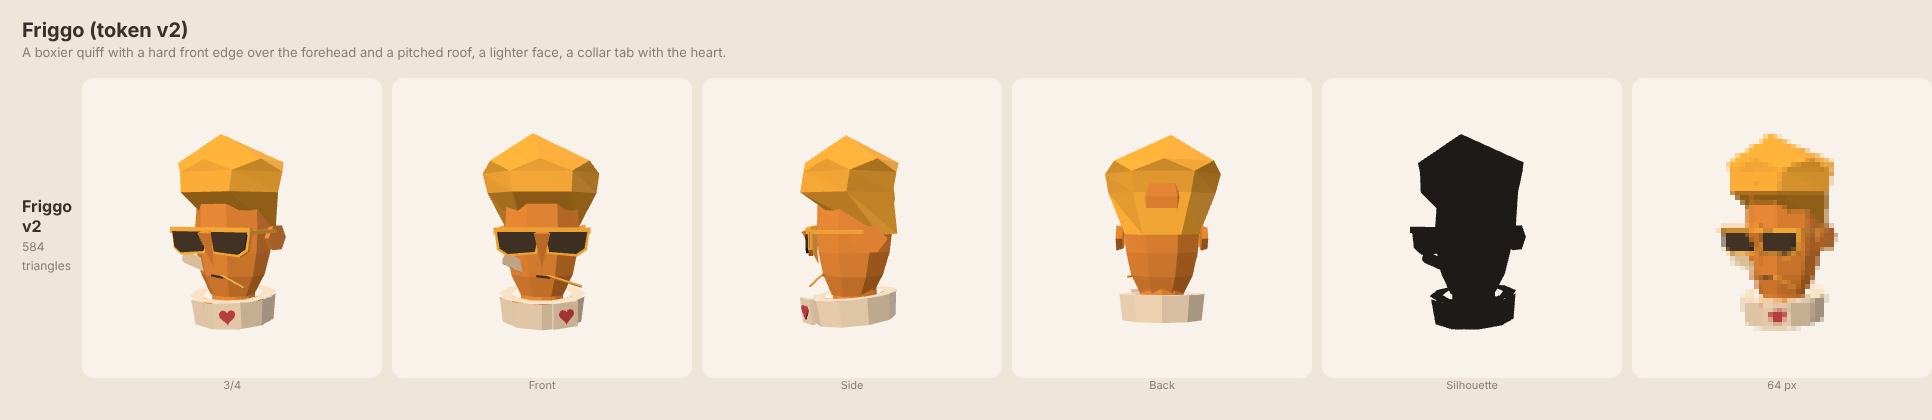
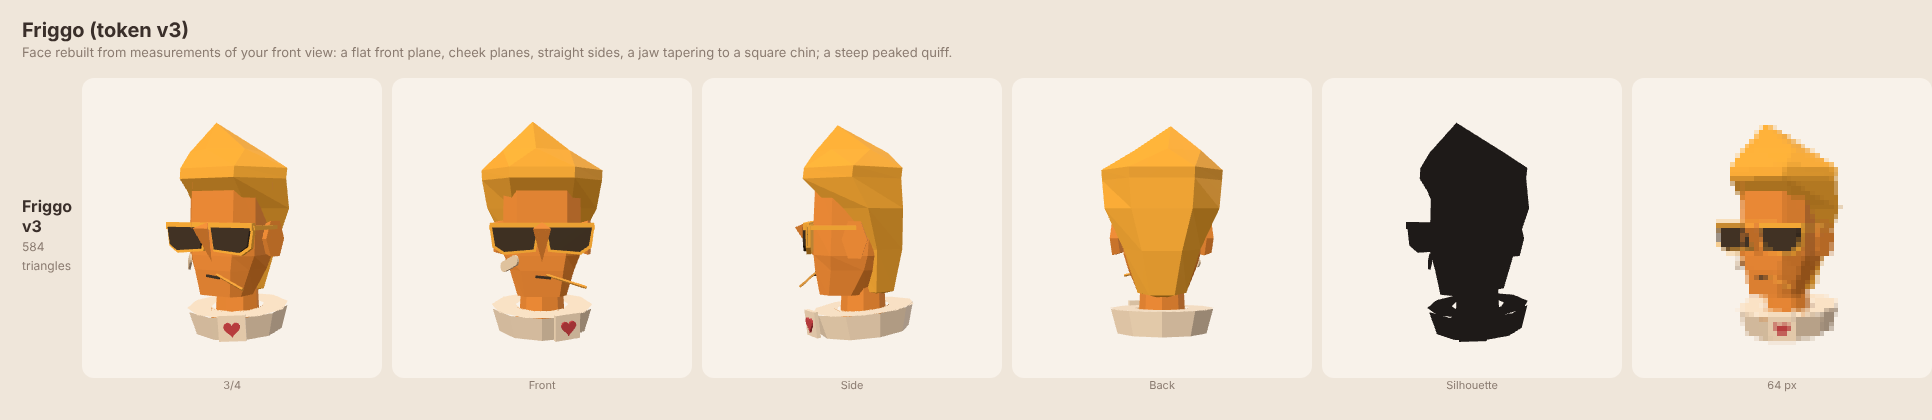
Leader heads: Friggo token v3, face rebuilt from measurements of the reference
The face is now stacked polygon rings with explicit points (loftPoly), measured from the sheet's front view: a
flat front plane, chamfered cheek planes, straight sides, a jaw tapering to a square chin, a neck. Steeper peaked
quiff that runs down the back of the head, bigger ears, lower collar.

Claude-Session: https://claude.ai/code/session_01Evp91q287uqvTHXxJdbEVv

diff --git a/models/heads/friggo.js b/models/heads/friggo.js
@@ -51,67 +51,93 @@ const FriggoHead = (THREE) => {
   const HAIR = '#F7B238', FACE = '#EA8F37', SHADES = '#3B2E1F', COLLAR = '#F3E4CF', COLLAR2 = '#D9C7AE', HEART = '#C4414A', BANDAGE = '#E6D3B8', PICK = '#E8A43C';
 
   // the face: a long wedge, widest at the cheekbones/glasses, tapering to a square chin; a flat facet at the front
-  // measured from the sheet's front view (chin at y -1, hairline at 1): [y, halfWidth, halfDepth, centreZ, centreX, turn]
-  const FACE_RINGS = [
-    [-1.0, 0.44, 0.42, 0.0, 0, 0.5], // chin: square and wide
-    [-0.6, 0.64, 0.62, 0.02, 0, 0.5], // jaw, at the mouth
-    [-0.15, 0.74, 0.74, 0.04, 0, 0.5], // cheeks
-    [0.27, 0.77, 0.78, 0.05, 0, 0.5], // glasses
-    [0.9, 0.73, 0.8, 0.08, 0, 0.5], // temples
-    [1.2, 0.6, 0.74, 0.1, 0, 0.5], // under the hair
+  // a solid from stacked polygon rings: each ring { y, pts: [[x, z], ...] }, the same number of points, going round
+  // the same way; quads between rings, the ends closed with a fan
+  const loftPoly = (rings) => {
+    const pos = [];
+    const tri = (A, B, C, inside) => {
+      const n = new THREE.Vector3().crossVectors(B.clone().sub(A), C.clone().sub(A));
+      const out = A.clone().add(B).add(C).multiplyScalar(1 / 3).sub(inside);
+      if (n.dot(out) < 0) [B, C] = [C, B];
+      pos.push(A.x, A.y, A.z, B.x, B.y, B.z, C.x, C.y, C.z);
+    };
+    const V = (r, i) => { const [x, z] = r.pts[(i + r.pts.length) % r.pts.length]; return new THREE.Vector3(x, r.y, z); };
+    const mid = (r) => { const c = r.pts.reduce((a, [x, z]) => [a[0] + x, a[1] + z], [0, 0]); return new THREE.Vector3(c[0] / r.pts.length, r.y, c[1] / r.pts.length); };
+    for (let k = 0; k < rings.length - 1; k++) {
+      const R0 = rings[k], R1 = rings[k + 1], inside = mid(R0).lerp(mid(R1), 0.5);
+      for (let i = 0; i < R0.pts.length; i++) { tri(V(R0, i), V(R0, i + 1), V(R1, i + 1), inside); tri(V(R0, i), V(R1, i + 1), V(R1, i), inside); }
+    }
+    for (const [r, dy] of [[rings[0], 0.3], [rings[rings.length - 1], -0.3]]) {
+      const c = mid(r), inside = c.clone().add(new THREE.Vector3(0, dy, 0));
+      for (let i = 0; i < r.pts.length; i++) tri(c, V(r, i), V(r, i + 1), inside);
+    }
+    const g = new THREE.BufferGeometry(); g.setAttribute('position', new THREE.Float32BufferAttribute(pos, 3)); return g;
+  };
+  // the face, measured from the sheet's front view (hairline y 1, chin y -1): a box with chamfered front corners.
+  // A wide flat front plane, cheek planes at the corners, near-vertical sides down past the glasses, then the jaw
+  // tapering to a broad, flat-bottomed chin. Each ring: [y, front half-width, front z, cheek x, cheek z, side x,
+  // side z, back x, back z]
+  const FACE_SEC = [
+    [-1.0, 0.3, -0.56, 0.42, -0.4, 0.44, -0.02, 0.28, 0.24], // chin: square, flat-bottomed
+    [-0.55, 0.36, -0.64, 0.56, -0.36, 0.6, 0.2, 0.36, 0.56], // jaw corner
+    [-0.3, 0.4, -0.66, 0.66, -0.36, 0.67, 0.26, 0.4, 0.72], // cheekbones, under the glasses
+    [0.24, 0.42, -0.66, 0.67, -0.34, 0.67, 0.3, 0.42, 0.8], // top of the glasses
+    [1.1, 0.42, -0.62, 0.66, -0.32, 0.66, 0.3, 0.42, 0.8], // under the hair
   ];
-  const frontZ = (ring) => ring[3] - ring[2] * Math.cos(PI / 8); // the front facet's depth at that ring
+  const ring = ([y, fx, fz, cx, cz, sx, sz, bx, bz]) => ({ y, pts: [[fx, fz], [cx, cz], [sx, sz], [bx, bz], [-bx, bz], [-sx, sz], [-cx, cz], [-fx, fz]] });
+  const frontZ = (y) => { // the front plane's depth at height y
+    for (let i = 0; i < FACE_SEC.length - 1; i++) { const a = FACE_SEC[i], b = FACE_SEC[i + 1]; if (y >= a[0] && y <= b[0]) return a[2] + (b[2] - a[2]) * (y - a[0]) / (b[0] - a[0]); }
+    return -0.62;
+  };
 
   const parts = () => {
     const out = [];
-    out.push({ g: loft(FACE_RINGS, [0, 1.25, 0.1], [0, -1.04, 0.0]), col: FACE });
-    // hair: a big faceted pompadour, wider than the face, jutting forward over the forehead, peaking at the top front
-    // hair: a wide, deep block wrapping down the back of the head, a straight hairline across the forehead, and a
-    // pitched roof up to a peak a little to one side. About half as tall as the face, a bit wider than it.
+    out.push({ g: loftPoly(FACE_SEC.map(ring)), col: FACE });
+    out.push(P(new THREE.CylinderGeometry(0.38, 0.42, 0.8, 8), FACE, [0, -1.25, 0.2])); // neck
+    // hair: 1.6 times the face's width, about as tall as the forehead to the peak; a hard straight front edge
+    // overhanging the forehead, sides dropping past the temples, wrapping round the back of the head; a pitched
+    // roof up to a peak off to his right
     const HAIR_RINGS = [
-      [0.2, 0.7, 0.42, 0.5, 0.0, 0.5], // low at the back (its front is hidden inside the face)
-      [0.98, 1.06, 1.0, -0.1, 0.0, 0.5], // the hairline: a hard, straight front edge, overhanging the forehead
-      [1.36, 1.14, 1.0, -0.04, 0.02, 0.5], // near-vertical sides; the front slopes back and up, so it catches the light
-      [1.58, 1.08, 0.92, 0.0, 0.04, 0], // the roof starts: turned, so it breaks into triangular facets
+      [-0.95, 0.42, 0.36, 0.42, 0.0, 0.5], // down the back of the head to the neck
+      [-0.2, 0.66, 0.52, 0.42, 0.0, 0.5], // low at the back of the head (its front hidden inside the face)
+      [0.5, 1.0, 0.7, 0.26, 0.0, 0.5], // the sides, past the temples (the front still inside the face)
+      [1.0, 1.07, 0.96, 0.0, 0.0, 0.5], // the hairline: the front overhangs the forehead
+      [1.18, 1.08, 0.96, 0.02, 0.0, 0.5], // the shoulders of the quiff, its widest
+      [1.5, 0.66, 0.66, -0.02, 0.1, 0], // the steep roof: turned, triangular facets
     ];
-    out.push({ g: loft(HAIR_RINGS, [0.18, 2.14, -0.12], [0, 0.2, 0.55], 6), col: HAIR }); // the peak: off to his right and forward
-    // ears: plain flat shapes at glasses height
-    for (const sd of [-1, 1]) out.push(P(new THREE.CylinderGeometry(0.27, 0.23, 0.12, 6), FACE, [sd * 0.8, 0.12, 0.28], [0, 0, PI / 2], [1, 1, 1.35]));
-    // nose: a wedge pointing down and forward under the glasses
-    const fz = frontZ(FACE_RINGS[3]), cz = frontZ(FACE_RINGS[2]);
-    { const g = new THREE.ConeGeometry(0.17, 0.72, 3, 1); g.rotateY(PI); g.rotateX(PI - 0.35);
-      out.push(P(g, FACE, [0, -0.08, (fz + cz) / 2 - 0.12])); }
-    // sunglasses: a straight yellow top bar, two dark trapezoid lenses in yellow rims, a bridge, arms to the ears
-    const gy = 0.07, gz = fz - 0.12;
-    out.push(P(new THREE.BoxGeometry(1.76, 0.12, 0.1), HAIR, [0, gy + 0.2, gz]));
+    out.push({ g: loft(HAIR_RINGS, [0.16, 2.0, -0.26], [0, -1.05, 0.42], 6), col: HAIR }); // the peak
+    // ears: at the sides, a little behind the cheek corners
+    for (const sd of [-1, 1]) out.push(P(new THREE.CylinderGeometry(0.22, 0.19, 0.14, 6), FACE, [sd * 0.78, -0.02, 0.06], [0, sd * 0.3, PI / 2], [1.6, 1, 1.0]));
+    // nose: a long wedge from between the lenses, pointing down and out
+    { const g = new THREE.ConeGeometry(0.17, 0.66, 3, 1); g.rotateY(PI); g.rotateX(PI - 0.42);
+      out.push(P(g, FACE, [0, -0.1, frontZ(-0.1) - 0.13])); }
+    // sunglasses: wider than the face; a straight yellow top bar, dark trapezoid lenses in yellow rims, arms to the ears
+    const gy = 0.0, gz = frontZ(0) - 0.09;
+    out.push(P(new THREE.BoxGeometry(1.72, 0.12, 0.1), HAIR, [0, gy + 0.2, gz]));
     for (const sd of [-1, 1]) {
-      const lens = [[-0.38, 0.18], [0.38, 0.18], [0.33, -0.12], [0.18, -0.22], [-0.31, -0.18]].map(([x, y]) => [x * sd, y]);
-      const rim = [[-0.42, 0.22], [0.43, 0.22], [0.38, -0.15], [0.2, -0.27], [-0.35, -0.22]].map(([x, y]) => [x * sd, y]);
+      const lens = [[-0.36, 0.18], [0.38, 0.18], [0.33, -0.12], [0.18, -0.22], [-0.3, -0.18]].map(([x, y]) => [x * sd, y]);
+      const rim = [[-0.4, 0.22], [0.43, 0.22], [0.38, -0.15], [0.2, -0.27], [-0.34, -0.22]].map(([x, y]) => [x * sd, y]);
       out.push(P(slab(rim, 0.08), HAIR, [sd * 0.44, gy, gz + 0.03]));
       out.push(P(slab(lens, 0.08), SHADES, [sd * 0.44, gy, gz - 0.02]));
-      out.push(P(new THREE.BoxGeometry(0.07, 0.07, 1.0), HAIR, [sd * 0.84, gy + 0.18, gz + 0.5])); // arm
+      out.push(P(new THREE.BoxGeometry(0.07, 0.07, 0.8), HAIR, [sd * 0.84, gy + 0.18, gz + 0.42])); // arm
     }
-    // mouth: a short line, a touch higher on the toothpick side
-    const my = -0.6, mz = frontZ([my, 0, 0.6, 0.02]) - 0.02;
-    out.push(P(new THREE.BoxGeometry(0.26, 0.04, 0.05), SHADES, [-0.02, my, mz], [0, 0, 0.12]));
-    // toothpick: out of the mouth's corner (his left, -x), angled out and a little down
+    // mouth: a short line; the toothpick out of the corner on his left (-x)
+    const my = -0.66, mz = frontZ(my) - 0.02;
+    out.push(P(new THREE.BoxGeometry(0.26, 0.04, 0.05), SHADES, [-0.02, my, mz], [0, 0, 0.1]));
     { const g = new THREE.CylinderGeometry(0.025, 0.025, 0.72, 4); g.rotateZ(PI / 2 + 0.25); g.rotateY(-0.35);
-      out.push(P(g, PICK, [-0.4, my - 0.06, mz - 0.1])); }
-    // plaster: a rounded cream strip on his right cheek (+x), tilted
-    { const g = slab(rounded(0.62, 0.22, 0.09), 0.04);
-      out.push(P(g, BANDAGE, [0.48, -0.36, frontZ([-0.36, 0, 0.7, 0.03]) + 0.12], [0, 0.55, 0.42])); }
-    // collar: a cream shirt collar standing round the neck, open at the front, two flaps folded out; a red heart on
-    // the flap on his left (-x)
-    out.push(P(new THREE.CylinderGeometry(0.42, 0.46, 0.5, 10), FACE, [0, -1.1, 0.06])); // neck
-    // a simple ring collar, wider at the top, tipped down at the front; a cream heart patch on the front-left
-    const cy = -1.24, ch = 0.5, tilt = [-0.1, 0, 0];
-    out.push(P(new THREE.CylinderGeometry(0.86, 0.8, ch, 10, 1, true), COLLAR, [0, cy, 0.04], tilt));
-    out.push(P(new THREE.CylinderGeometry(0.62, 0.62, ch, 10, 1, true), FACE, [0, cy, 0.04], tilt)); // inside
-    out.push(P(new THREE.RingGeometry(0.6, 0.86, 10, 1), COLLAR, [0, cy + ch / 2, 0.04], [-PI / 2 - 0.1, 0, 0])); // top edge
-    out.push(P(new THREE.CircleGeometry(0.8, 10), COLLAR2, [0, cy - ch / 2, 0.04], [PI / 2 - 0.1, 0, 0])); // bottom
-    const tab = [-0.42, cy - 0.02, -0.84], tabRot = [-0.12, 0.45, 0];
-    out.push(P(new THREE.BoxGeometry(0.5, 0.48, 0.07), COLLAR, tab, tabRot)); // the collar tab
-    { const g = slab(heart(0.15), 0.04); g.translate(0, 0, -0.05); out.push(P(g, HEART, tab, tabRot)); }
+      out.push(P(g, PICK, [-0.4, my - 0.05, mz - 0.1])); }
+    // plaster: on his right cheek plane (+x), tilted
+    { const g = slab(rounded(0.5, 0.18, 0.08), 0.04);
+      out.push(P(g, BANDAGE, [0.55, -0.44, -0.52], [0, -0.88, -0.4])); }
+    // collar: a ring round the neck, tipped down at the front; a square tab with the heart on the front-left
+    const cy = -1.46, ch = 0.42, tilt = [-0.1, 0, 0];
+    out.push(P(new THREE.CylinderGeometry(0.92, 0.8, ch, 10, 1, true), COLLAR, [0, cy, 0.2], tilt));
+    out.push(P(new THREE.CylinderGeometry(0.5, 0.5, ch, 10, 1, true), FACE, [0, cy, 0.2], tilt));
+    out.push(P(new THREE.RingGeometry(0.48, 0.92, 10, 1), COLLAR, [0, cy + ch / 2, 0.2], [-PI / 2 - 0.1, 0, 0]));
+    out.push(P(new THREE.CircleGeometry(0.76, 10), COLLAR2, [0, cy - ch / 2, 0.2], [PI / 2 - 0.1, 0, 0]));
+    const tab = [-0.42, cy - 0.02, -0.68], tabRot = [-0.12, 0.45, 0];
+    out.push(P(new THREE.BoxGeometry(0.46, 0.44, 0.07), COLLAR, tab, tabRot));
+    { const g = slab(heart(0.14), 0.04); g.translate(0, 0, -0.05); out.push(P(g, HEART, tab, tabRot)); }
     return out;
   };
 

diff --git a/models/heads/HANDOFF.md b/models/heads/HANDOFF.md
@@ -27,11 +27,16 @@ How the token is built (reuse it for the next leaders):
   token sheet (1536 x 1024): front `400,65,200,280` (`--yaw 0`), hero `40,300,310,445` (`--yaw -0.55`).
 
 **Friggo** (the leader formerly called Frickolas Cage; id `cage`, renamed in the game on 2026-11-07): token built
-from `refs/friggo-reference.png` (target 1,200-2,000 triangles; the token is **`friggo.js`, FriggoHead v2, 584
-triangles**, waiting for Vilhelm's verdict). A long 8-sided face wedge tapering to a square chin and a 6-sided
-pompadour block (a hard straight front edge overhanging the forehead, near-vertical sides, the front sloping back so it catches the light) with a pitched roof up to an off-centre peak (both from `loft()`: stacked rings, alternate rings
-turned for triangular facets), a wedge nose, plain ears, wide sunglasses (yellow top bar and rims, dark lenses), a
-toothpick, a plaster on the cheek, and a ring collar with a square tab carrying a red heart. Renders: `renders/friggo-*.png`.
+from `refs/friggo-reference.png` (target 1,200-2,000 triangles; the token is **`friggo.js`, FriggoHead v3, 584
+triangles**, waiting for Vilhelm's verdict). v3 rebuilt the face after "the facial structure is totally off": the
+face is now `loftPoly()` (stacked polygon rings with explicit points, not a round lathe), measured row by row from
+the sheet's front view: a wide flat front plane, cheek planes at chamfered corners, straight sides down past the
+glasses, a jaw tapering to a square flat-bottomed chin, and a neck. The hair (`loft()`, 6 sides) is about 1.6x the
+face's width, with a hard front edge overhanging the forehead, sides past the temples, a steep roof up to a peak
+off to one side, and runs down the back of the head to the neck. Wedge nose, ears at glasses height, wide
+sunglasses, toothpick, plaster on the cheek plane, a ring collar with a square tab carrying a red heart.
+Lesson: for a planar, angular face, build cross-sections from explicit points measured off the reference; round
+lofts read as tubes. Renders: `renders/friggo-*.png`.
 Crops of his sheet: front `345,50,170,265` (`--yaw 0`), hero `0,225,340,495` (`--yaw 0.5`).
 
 Everything below this section was written for the earlier, detailed style. The hand-built Zoe versions
